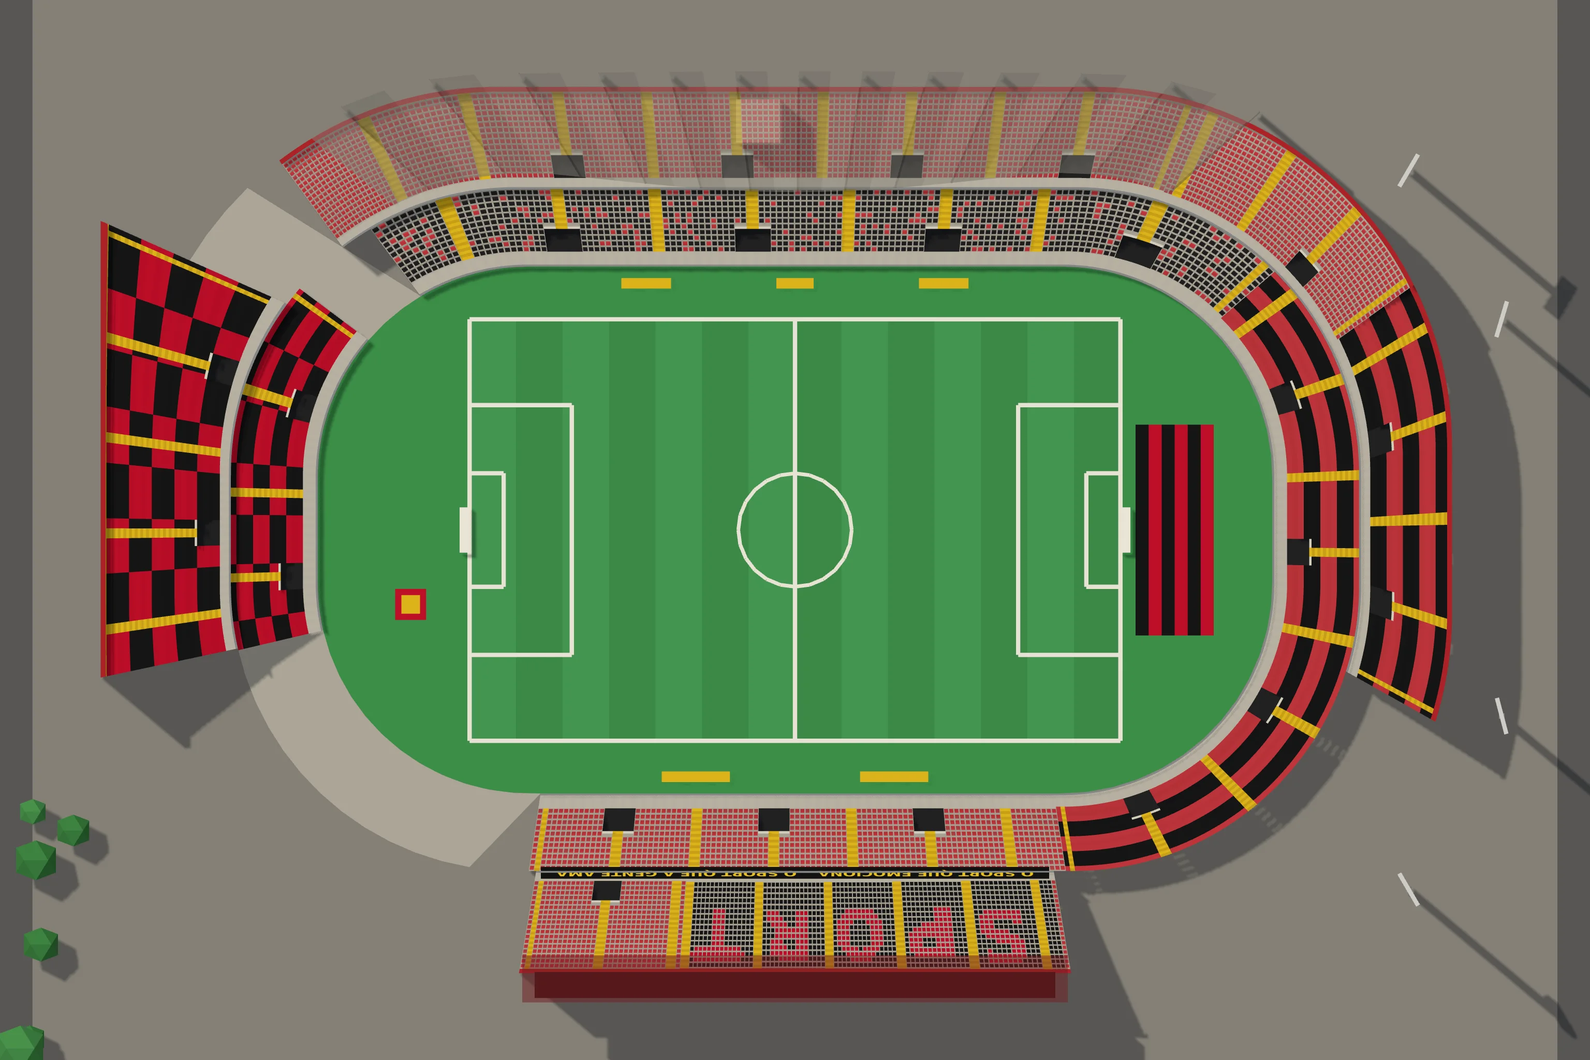
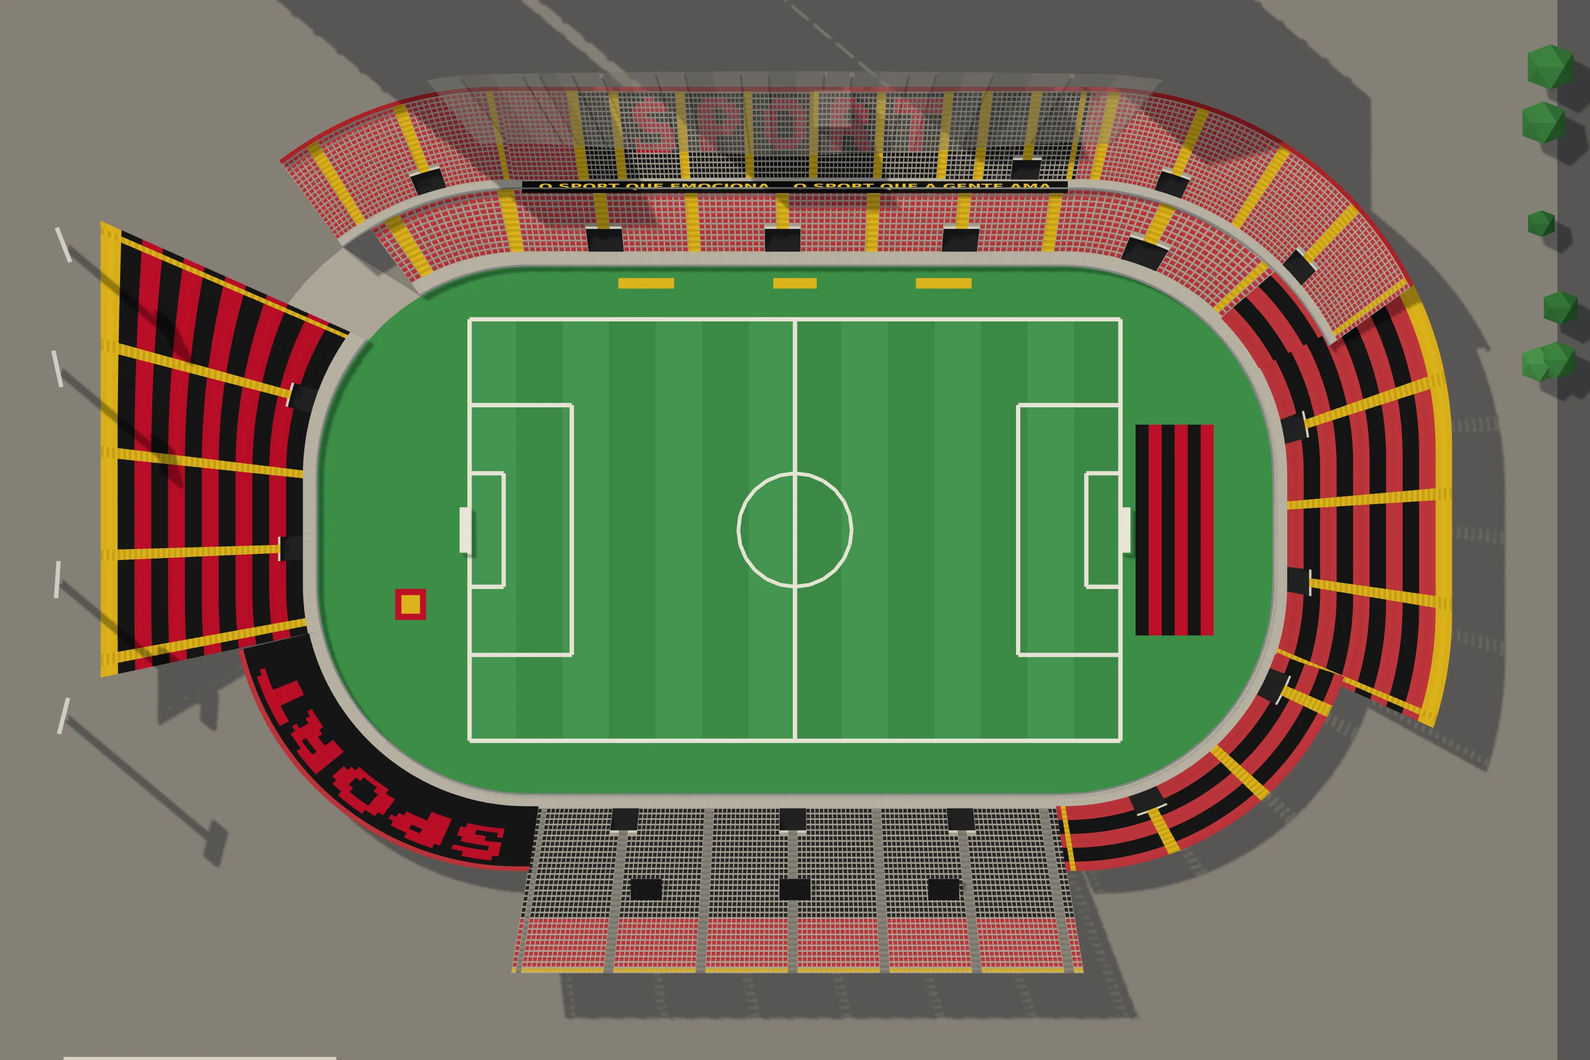
Ilha do Retiro: um andar só atrás dos gols e no lado descoberto; SPORT no lado coberto e na curva sudoeste
Claude-Session: https://claude.ai/code/session_019hwwMAyyP7ZAvyq6wYTetr

diff --git a/cenario3d/dados/estadios_cenas.js b/cenario3d/dados/estadios_cenas.js
@@ -217,19 +217,19 @@ window.__ESTADIOS = {
    "visitante": 3
   },
   "foto": {
-   "imagem": "img/cenas/estadio_ilha_do_retiro.webp?v=6233a056",
-   "mascara": "384;384;384;384;384;384;384;384;384;384;384;384;384;384;384;384;384;384;384;384;384;384;108,168,108;103,178,103;98,188,98;95,194,95;92,200,92;89,206,89;86,212,86;84,216,84;82,220,82;80,224,80;78,228,78;76,232,76;75,234,75;73,238,73;72,240,72;70,244,70;69,246,69;68,248,68;66,252,66;65,254,65;64,256,64;63,258,63;62,260,62;60,264,60;59,266,59;58,268,58;58,268,58;57,270,57;56,272,56;55,274,55;54,276,54;53,278,53;25,2,25,280,52;25,4,23,280,52;25,6,20,282,51;25,8,17,284,50;25,11,13,286,49;25,13,11,286,49;25,15,8,288,48;25,17,5,290,47;25,20,2,290,47;25,313,46;25,94,146,73,46;25,89,156,69,45;25,86,162,66,45;25,83,168,64,44;25,81,172,63,43;25,79,176,61,43;25,77,180,59,43;25,75,184,58,42;25,74,186,57,42;25,73,188,57,41;25,71,192,55,41;25,70,194,55,40;25,69,196,54,40;25,68,198,53,40;25,67,200,53,39;25,66,202,52,39;25,65,204,51,39;25,64,206,51,38;25,63,208,50,38;25,62,210,49,38;25,61,212,49,37;25,61,212,49,37;25,60,214,48,37;25,59,216,47,37;25,59,216,48,36;25,58,218,47,36;25,57,220,46,36;25,57,220,46,36;25,56,222,46,35;25,56,222,46,35;25,55,224,45,35;25,55,224,45,35;25,55,224,45,35;25,54,226,44,35;25,54,226,44,35;25,53,228,43,35;25,53,228,44,34;25,53,228,44,34;25,53,228,44,34;25,52,230,43,34;25,52,230,43,34;25,52,230,43,34;25,52,230,43,34;25,52,230,43,34;25,51,232,42,34;25,51,232,42,34;25,51,232,42,34;25,51,232,42,34;25,51,232,42,34;25,51,232,42,34;25,51,232,42,34;25,51,232,42,34;25,51,232,42,34;25,51,232,42,34;25,51,232,42,34;25,51,232,42,34;25,51,232,42,34;25,51,232,42,34;25,51,232,42,34;25,51,232,42,34;25,51,232,42,34;25,51,232,42,34;25,51,232,42,34;25,51,232,42,34;25,51,232,42,34;25,51,232,42,34;25,51,232,42,34;25,51,232,42,34;25,51,232,42,34;25,51,232,42,34;25,51,232,42,34;25,51,232,42,34;25,51,232,42,34;25,51,232,42,34;25,51,232,42,34;25,51,232,42,34;25,51,232,42,34;25,51,232,42,34;25,51,232,42,34;25,51,232,42,34;25,51,232,42,34;25,51,232,42,34;25,51,232,42,34;25,51,232,42,34;25,52,230,43,34;25,52,230,43,34;25,52,230,43,34;25,52,230,43,34;25,52,230,43,34;25,53,228,44,34;25,53,228,44,34;25,53,228,44,34;25,53,228,43,35;25,27,5,22,226,44,35;25,23,10,21,226,44,35;25,18,15,22,224,45,35;25,13,20,22,224,45,35;25,8,25,22,224,45,35;25,4,30,22,222,22,2,22,35;59,22,222,22,6,18,35;59,23,220,23,10,13,36;60,22,220,22,15,9,36;60,23,218,23,19,5,36;61,23,216,23,24,1,36;61,23,216,23,61;61,24,214,24,61;62,24,212,24,62;62,24,212,24,62;63,24,210,24,63;63,25,208,25,63;64,25,206,25,64;64,26,204,26,64;65,26,202,26,65;66,26,200,26,66;66,27,198,27,66;67,27,196,27,67;67,28,194,28,67;68,28,192,28,68;69,29,188,29,69;70,29,186,29,70;70,30,184,30,70;71,31,180,31,71;72,32,176,32,72;73,33,172,33,73;74,34,168,34,74;75,36,162,36,75;76,38,156,38,76;77,42,146,42,77;78,228,78;79,226,79;80,224,80;81,222,81;83,218,83;84,216,84;85,214,85;87,210,87;89,206,89;90,204,90;92,200,92;94,196,94;96,192,96;99,186,99;101,182,101;104,176,104;108,168,108;113,158,113;129,126,129;129,126,129;128,128,128;127,130,127;126,132,126;126,132,126;125,134,125;124,136,124;123,138,123;123,138,123;122,140,122;121,142,121;120,144,120;120,144,120;119,146,119;118,148,118;117,150,117;117,150,117;116,152,116;115,154,115;114,156,114;113,158,113;113,158,113;112,160,112;384;384;384;384;384;384;384;384;384;384;384;384;384;384;384;384;384;384;384;384;384;384"
+   "imagem": "img/cenas/estadio_ilha_do_retiro.webp?v=d19ef18a",
+   "mascara": "384;384;384;384;384;384;384;384;384;384;384;384;384;384;384;384;384;384;384;384;384;384;108,168,108;103,178,103;98,188,98;95,194,95;92,200,92;89,206,89;86,212,86;84,216,84;82,220,82;80,224,80;78,228,78;76,232,76;75,234,75;73,238,73;72,240,72;70,244,70;69,246,69;68,248,68;66,252,66;65,254,65;64,256,64;63,258,63;62,260,62;61,263,60;62,263,59;63,263,58;65,261,58;67,260,57;68,260,56;70,259,55;71,259,54;73,258,53;24,3,48,257,52;24,5,47,256,52;24,7,47,255,51;24,9,46,255,50;24,12,45,254,49;24,14,44,253,49;24,16,41,255,48;24,18,38,257,47;24,21,34,258,47;24,23,31,260,46;24,25,28,42,146,73,46;24,27,25,38,156,69,45;24,30,21,36,162,66,45;24,32,18,34,168,64,44;24,34,15,33,172,63,43;24,36,12,32,176,61,43;24,39,8,31,180,59,43;24,41,5,30,184,58,42;24,43,3,29,186,57,42;24,74,188,57,41;24,72,192,55,41;24,71,194,55,40;24,70,196,55,39;24,69,198,55,38;24,68,200,54,38;24,67,202,53,38;24,66,204,53,37;24,65,206,52,37;24,64,208,51,37;24,63,210,51,36;24,62,212,50,36;24,62,212,50,36;24,61,214,49,36;24,60,216,49,35;24,60,216,49,35;24,59,218,48,35;24,58,220,47,35;24,58,220,47,35;24,57,222,47,34;24,57,222,47,34;24,56,224,46,34;24,56,224,46,34;24,56,224,46,34;24,55,226,45,34;24,55,226,45,34;24,54,228,45,33;24,54,228,45,33;24,54,228,45,33;24,54,228,45,33;24,53,230,44,33;24,53,230,44,33;24,53,230,44,33;24,53,230,44,33;24,53,230,44,33;24,52,232,43,33;24,52,232,43,33;24,52,232,43,33;24,52,232,43,33;24,52,232,43,33;24,52,232,43,33;24,52,232,43,33;24,52,232,43,33;24,52,232,43,33;24,52,232,43,33;24,52,232,43,33;24,52,232,43,33;24,52,232,43,33;24,52,232,43,33;24,52,232,43,33;24,52,232,43,33;24,52,232,43,33;24,52,232,43,33;24,52,232,43,33;24,52,232,43,33;24,52,232,43,33;24,52,232,43,33;24,52,232,43,33;24,52,232,43,33;24,52,232,43,33;24,52,232,43,33;24,52,232,43,33;24,52,232,43,33;24,52,232,43,33;24,52,232,43,33;24,52,232,43,33;24,52,232,43,33;24,52,232,43,33;24,52,232,43,33;24,52,232,43,33;24,52,232,43,33;24,52,232,43,33;24,52,232,43,33;24,52,232,43,33;24,52,232,43,33;24,53,230,44,33;24,53,230,44,33;24,53,230,44,33;24,53,230,44,33;24,53,230,44,33;24,54,228,45,33;24,54,228,45,33;24,54,228,45,33;24,54,228,45,33;24,28,5,22,226,45,34;24,24,10,21,226,45,34;24,19,15,22,224,46,34;24,14,20,22,224,46,34;24,9,25,22,224,46,34;24,5,30,22,222,22,2,23,34;59,22,222,22,6,19,34;59,23,220,23,10,14,35;60,22,220,22,15,10,35;60,23,218,23,19,6,35;61,23,216,23,24,2,35;61,23,216,23,61;61,24,214,24,61;62,24,212,24,62;62,24,212,24,62;63,24,210,24,63;63,25,208,25,63;64,25,206,25,64;64,26,204,26,64;65,26,202,26,65;66,26,200,26,66;66,27,198,27,66;67,27,196,27,67;67,28,194,28,67;68,28,192,28,68;69,29,188,29,69;70,29,186,29,70;70,30,184,30,70;71,31,180,31,71;72,32,176,32,72;73,33,172,33,73;74,34,168,34,74;75,36,162,36,75;76,38,156,38,76;77,42,146,42,77;78,228,78;79,226,79;80,224,80;81,222,81;83,218,83;84,216,84;85,214,85;87,210,87;89,206,89;90,204,90;92,200,92;94,196,94;96,192,96;99,186,99;101,182,101;104,176,104;108,168,108;113,159,112;112,161,111;111,163,110;110,165,109;109,167,108;108,169,107;108,170,106;107,172,105;106,174,104;105,176,103;104,178,102;103,180,101;102,182,100;101,184,99;100,186,98;99,188,97;98,190,96;97,192,95;96,194,94;95,196,93;94,198,92;93,199,92;95,194,95;98,188,98;103,178,103;109,166,109;384;384;384;384;384;384;384;384;384;384;384;384;384;384;384;384;384;384;384;384;384"
   },
   "cena": {
    "nome": "Ilha do Retiro",
    "faixas": {
     "mandante1": {
-     "x": 2466,
-     "y": 893,
+     "x": 2467,
+     "y": 926,
      "len": 130,
      "dir": [
       -0.99,
-      0.14
+      0.1
      ]
     },
     "mandante2": {
@@ -284,8 +284,8 @@ window.__ESTADIOS = {
      "rot": "MANDANTE 1º ESCALÃO",
      "lado": "mandante",
      "entrada": "portao_mandante",
-     "x": 2631,
-     "y": 870,
+     "x": 2632,
+     "y": 909,
      "jogador": true
     },
     {
@@ -336,11 +336,11 @@ window.__ESTADIOS = {
      "lado": "mandante",
      "raio": 40,
      "dir": [
-      0.97,
-      -0.26
+      0.98,
+      -0.19
      ],
-     "x": 2480,
-     "y": 771
+     "x": 2498,
+     "y": 828
     },
     {
      "id": "portao_visitante",
@@ -348,21 +348,21 @@ window.__ESTADIOS = {
      "lado": "visitante",
      "raio": 40,
      "dir": [
-      -0.97,
-      -0.24
+      -1,
+      0.04
      ],
-     "x": 587,
-     "y": 786
+     "x": 566,
+     "y": 1060
     }
    ],
    "pmPostos": [
     {
-     "x": 639,
-     "y": 547
+     "x": 705,
+     "y": 582
     },
     {
-     "x": 520,
-     "y": 484
+     "x": 651,
+     "y": 554
     },
     {
      "x": 587,

diff --git a/cenario3d/planta.html b/cenario3d/planta.html
@@ -289,24 +289,24 @@ button:focus-visible, input:focus-visible { outline: 2px solid var(--selecao); o
 
 <script type="module">
 import * as THREE from 'https://cdn.jsdelivr.net/npm/three@0.160.0/build/three.module.min.js';
-import { planoDaCasa, montarCasa, juntarBlocos, lugarDoDecalque, placasDoLote, segmentosDoMuro, carrosDoEstacionamento, portaoDoEstacionamento } from './js/casas3d.js?v=fd7e92d181';
-import { montarModelos } from './js/modelos3d.js?v=fd7e92d181';
-import { moldeDaPeca, comTransformador } from './js/props3d.js?v=fd7e92d181';
-import { ATLAS } from './js/modelos_atlas.js?v=fd7e92d181';
-import { Construtor, sorteio } from './js/construtor3d.js?v=fd7e92d181';
-import { gerarProposta, MAPAS, MAPA_DO_PORTE, RUA, LONGE_DO_ESTADIO_M, cisaoDaPraca, VAO_CIDADES_M, PRAIA_A_MAIS } from './js/proposta.js?v=fd7e92d181';
-import { montarSede, nivelQueCabe } from './js/sede3d.js?v=fd7e92d181';
-import { onibus as onibusDetalhe, juntar as juntarDetalhe } from './js/detalhe3d.js?v=fd7e92d181';
-import { montarLoteDeVeraneio, plantaDoLote, festaNoMundo, noMundoDoLote, cenaDaFesta, detalheDaCasaDaFesta } from './js/veraneio3d.js?v=fd7e92d181';
-import { montarCaravana, cenaDaCaravana } from './js/caravana3d.js?v=fd7e92d181';
-import { montarEstacao, montarTunel, montarCarro, TREM } from './js/metro3d.js?v=fd7e92d181';
-import { montarShopping, montarDelegacia, montarPraca, montarIgreja, montarEscola, montarHospital } from './js/equip3d.js?v=fd7e92d181';
-import { montarEquipAntigo, TIPOS_ANTIGOS } from './js/equip_antigo3d.js?v=fd7e92d181';
-import { PECAS_PRAIA, montarPecaDaPraia } from './js/praia3d.js?v=fd7e92d181';
-import { ESPECIES_LP, FLORA_LP, montarArvoreLowpoly, montarAsDez, facesDaArvore, especieLowpolyDe } from './js/arvores_lowpoly.js?v=fd7e92d181';
-import { plantarMato, montarMato, LONGE_M, DENSIDADE, LADRILHO_M } from './js/mato3d.js?v=fd7e92d181';
-import { ESTADIOS_JOGO, montarEstadioJogo, glbDoEstadio, cortarEstadio, plantaDoEstadio, modeloDaLotacao, nomeDoLetreiro, nomeComAcento, marcaDoEstadio, BOCAS_DOS_PORTOES, BILHETERIAS_DA_RUA } from './js/estadios3d.js?v=fd7e92d181';
-import { PECAS_AMBULANTES, montarAmbulante } from './js/ambulantes3d.js?v=fd7e92d181';
+import { planoDaCasa, montarCasa, juntarBlocos, lugarDoDecalque, placasDoLote, segmentosDoMuro, carrosDoEstacionamento, portaoDoEstacionamento } from './js/casas3d.js?v=b60e0d81f1';
+import { montarModelos } from './js/modelos3d.js?v=b60e0d81f1';
+import { moldeDaPeca, comTransformador } from './js/props3d.js?v=b60e0d81f1';
+import { ATLAS } from './js/modelos_atlas.js?v=b60e0d81f1';
+import { Construtor, sorteio } from './js/construtor3d.js?v=b60e0d81f1';
+import { gerarProposta, MAPAS, MAPA_DO_PORTE, RUA, LONGE_DO_ESTADIO_M, cisaoDaPraca, VAO_CIDADES_M, PRAIA_A_MAIS } from './js/proposta.js?v=b60e0d81f1';
+import { montarSede, nivelQueCabe } from './js/sede3d.js?v=b60e0d81f1';
+import { onibus as onibusDetalhe, juntar as juntarDetalhe } from './js/detalhe3d.js?v=b60e0d81f1';
+import { montarLoteDeVeraneio, plantaDoLote, festaNoMundo, noMundoDoLote, cenaDaFesta, detalheDaCasaDaFesta } from './js/veraneio3d.js?v=b60e0d81f1';
+import { montarCaravana, cenaDaCaravana } from './js/caravana3d.js?v=b60e0d81f1';
+import { montarEstacao, montarTunel, montarCarro, TREM } from './js/metro3d.js?v=b60e0d81f1';
+import { montarShopping, montarDelegacia, montarPraca, montarIgreja, montarEscola, montarHospital } from './js/equip3d.js?v=b60e0d81f1';
+import { montarEquipAntigo, TIPOS_ANTIGOS } from './js/equip_antigo3d.js?v=b60e0d81f1';
+import { PECAS_PRAIA, montarPecaDaPraia } from './js/praia3d.js?v=b60e0d81f1';
+import { ESPECIES_LP, FLORA_LP, montarArvoreLowpoly, montarAsDez, facesDaArvore, especieLowpolyDe } from './js/arvores_lowpoly.js?v=b60e0d81f1';
+import { plantarMato, montarMato, LONGE_M, DENSIDADE, LADRILHO_M } from './js/mato3d.js?v=b60e0d81f1';
+import { ESTADIOS_JOGO, montarEstadioJogo, glbDoEstadio, cortarEstadio, plantaDoEstadio, modeloDaLotacao, nomeDoLetreiro, nomeComAcento, marcaDoEstadio, BOCAS_DOS_PORTOES, BILHETERIAS_DA_RUA } from './js/estadios3d.js?v=b60e0d81f1';
+import { PECAS_AMBULANTES, montarAmbulante } from './js/ambulantes3d.js?v=b60e0d81f1';
 
 const $ = id => document.getElementById(id);
 const aviso = $('aviso');
@@ -323,25 +323,25 @@ function carregarScript(src) {
 }
 window.TO = window.TO || { dados: {} };
 try {
-  await carregarScript('dados/torcidas.js?v=fd7e92d181');
-  await carregarScript('dados/times.js?v=fd7e92d181');
-  await carregarScript('dados/cena_estadio.js?v=fd7e92d181');
-  await carregarScript('dados/cidades.js?v=fd7e92d181');
-  await carregarScript('dados/estadios.js?v=fd7e92d181');
-  await carregarScript('dados/escudos.js?v=fd7e92d181');
+  await carregarScript('dados/torcidas.js?v=b60e0d81f1');
+  await carregarScript('dados/times.js?v=b60e0d81f1');
+  await carregarScript('dados/cena_estadio.js?v=b60e0d81f1');
+  await carregarScript('dados/cidades.js?v=b60e0d81f1');
+  await carregarScript('dados/estadios.js?v=b60e0d81f1');
+  await carregarScript('dados/escudos.js?v=b60e0d81f1');
   /* o manifesto das faixas de verdade (a arte do dono, 29/09/2026): a arquibancada estende a da torcida */
-  await carregarScript('dados/faixas.js?v=fd7e92d181').catch(() => {});
+  await carregarScript('dados/faixas.js?v=b60e0d81f1').catch(() => {});
   /* O DOMÍNIO DOS BAIRROS (o dono, 30/09/2026): as sedes repetidas num
      bairro saem espalhadas (nos dados, na carga) e os bares ganham o
      bairro deles — o mesmo módulo do jogo (js/mundo/dominio.js) */
-  await carregarScript('js/dominio.js?v=fd7e92d181').catch(() => {});
+  await carregarScript('js/dominio.js?v=b60e0d81f1').catch(() => {});
 } catch (e) {
   aviso.textContent = 'A planta da cidade não carregou (' + e.message + '). Recarregue a página.';
   throw e;
 }
 /* os PNG dos escudos, embutidos (o montar.sh gera): sem o arquivo, o
    caminho vai direto pra img/escudos/ */
-await carregarScript('dados/escudos_embutidos.js?v=fd7e92d181').catch(() => {});
+await carregarScript('dados/escudos_embutidos.js?v=b60e0d81f1').catch(() => {});
 const P = TO.dados.plantaEstadio, K = P.CIDADE, M = P.METRO, CALC = K.CALC;
 /* o mapa da vez (o pequeno, o médio ou o grande, montado pra praça
    escolhida): quem monta é usarMapa, lá embaixo */

diff --git a/cenario3d/js/jogo2d.js b/cenario3d/js/jogo2d.js
@@ -17,7 +17,7 @@
    cartão da partida cai perto da hora da bola e nada do que conta o
    placar passa na frente dele.
    ========================================================= */
-import { CASCA } from './jogo_casca.js?v=fd7e92d181';
+import { CASCA } from './jogo_casca.js?v=b60e0d81f1';
 
 const carregarScript = src => new Promise((ok, erro) => {
   const s = document.createElement('script');
@@ -31,17 +31,17 @@ async function montarJogo() {
   caixa.innerHTML = CASCA;
   while (caixa.firstChild) document.body.appendChild(caixa.firstChild);
   /* os escudos, as fotos das praças e as bandeiras embutidos (o `IMG()` do jogo procura aqui antes do caminho) */
-  await carregarScript('dados/imagens_jogo.js?v=fd7e92d181').catch(() => {});
+  await carregarScript('dados/imagens_jogo.js?v=b60e0d81f1').catch(() => {});
   /* os estádios low-poly das cenas (ferramentas/estadios/assar.js): antes do jogo, que monta as cenas quando carrega */
-  await carregarScript('dados/estadios_cenas.js?v=fd7e92d181').catch(() => {});
+  await carregarScript('dados/estadios_cenas.js?v=b60e0d81f1').catch(() => {});
   /* sem o rolo do feed: a tela entre os jogos é o portal */
   window.TO = window.TO || {};
   TO.semFeed = true;
-  await carregarScript('js/jogo.js?v=fd7e92d181');
-  await carregarScript('js/portal.js?v=fd7e92d181').catch(err => console.error('o portal não carregou:', err));
+  await carregarScript('js/jogo.js?v=b60e0d81f1');
+  await carregarScript('js/portal.js?v=b60e0d81f1').catch(err => console.error('o portal não carregou:', err));
   /* o boneco das cenas de imagem (os dois níveis afinados, em base64) */
-  if (!TO.dados.bonecoPertoGLB) await carregarScript('dados/boneco_glb.js?v=fd7e92d181').catch(() => {});
-  await import('./bonecos3_global.js?v=fd7e92d181').catch(err => console.error('o boneco das cenas não carregou:', err));
+  if (!TO.dados.bonecoPertoGLB) await carregarScript('dados/boneco_glb.js?v=b60e0d81f1').catch(() => {});
+  await import('./bonecos3_global.js?v=b60e0d81f1').catch(err => console.error('o boneco das cenas não carregou:', err));
   ligar();
 }
 

diff --git a/cenario3d/jogo.html b/cenario3d/jogo.html
@@ -9,16 +9,16 @@
 <link rel="preconnect" href="https://fonts.googleapis.com">
 <link rel="preconnect" href="https://fonts.gstatic.com" crossorigin>
 <link rel="stylesheet" href="https://fonts.googleapis.com/css2?family=Barlow+Semi+Condensed:wght@500;600;700&family=Barlow:wght@400;500;600&family=IBM+Plex+Mono:wght@400;500&display=swap">
-<link rel="stylesheet" href="css/jogo.css?v=fd7e92d181">
-<link rel="stylesheet" href="css/jogo3d.css?v=fd7e92d181">
-<link rel="stylesheet" href="css/portal.css?v=fd7e92d181">
-<link rel="stylesheet" href="css/telas3d.css?v=fd7e92d181">
+<link rel="stylesheet" href="css/jogo.css?v=b60e0d81f1">
+<link rel="stylesheet" href="css/jogo3d.css?v=b60e0d81f1">
+<link rel="stylesheet" href="css/portal.css?v=b60e0d81f1">
+<link rel="stylesheet" href="css/telas3d.css?v=b60e0d81f1">
 <style>
 [hidden] { display: none !important; }
 html, body { height: 100%; margin: 0; }
 </style>
 </head>
 <body class="jogo3d">
-<script type="module" src="js/jogo2d.js?v=fd7e92d181"></script>
+<script type="module" src="js/jogo2d.js?v=b60e0d81f1"></script>
 </body>
 </html>

diff --git a/cenario3d/js/casas3d.js b/cenario3d/js/casas3d.js
@@ -60,10 +60,10 @@
    avançam (`rec`), e o letreiro, a pixação e a falha de reboco do
    bairro vão pro plano dessa parede, não pro da divisa.
    ========================================================= */
-import { Construtor, METRO, mureta, toldo, arSplit, sorteio } from './construtor3d.js?v=fd7e92d181';
-import { ATLAS } from './modelos_atlas.js?v=fd7e92d181';
+import { Construtor, METRO, mureta, toldo, arSplit, sorteio } from './construtor3d.js?v=b60e0d81f1';
+import { ATLAS } from './modelos_atlas.js?v=b60e0d81f1';
 /* as lojas do assalto (lojas3d.js): modelos de lote como os outros */
-import { TIPOS_LOJA, REC_LOJA, placaDaLoja } from './lojas3d.js?v=fd7e92d181';
+import { TIPOS_LOJA, REC_LOJA, placaDaLoja } from './lojas3d.js?v=b60e0d81f1';
 
 /* o arquivo de cada folha, pro bairro montar o material dele */
 export const arquivoDaFolha = folha => ATLAS[folha].arquivo;

diff --git a/cenario3d/js/ambulantes3d.js b/cenario3d/js/ambulantes3d.js
@@ -27,8 +27,8 @@
    que a planta acha o lugar dela na calçada do estádio. `sol`: o meio e
    o raio da copa ([x, z, r]), que o mapa desenha de perto.
    ========================================================= */
-import { Construtor, noMundo, placasNoMundo, sorteio, esfera, unit } from './construtor3d.js?v=fd7e92d181';
-import { Lugar, barra, tubo, cilindro, bloco, pano, toro, guardaSol, cadeiraPlastica, isopor, banqueta, CORES_SOL } from './praia3d.js?v=fd7e92d181';
+import { Construtor, noMundo, placasNoMundo, sorteio, esfera, unit } from './construtor3d.js?v=b60e0d81f1';
+import { Lugar, barra, tubo, cilindro, bloco, pano, toro, guardaSol, cadeiraPlastica, isopor, banqueta, CORES_SOL } from './praia3d.js?v=b60e0d81f1';
 
 const AQUI = Lugar();
 const escolha = (rnd, lista) => lista[Math.floor(rnd() * lista.length) % lista.length];

diff --git a/cenario3d/js/praia3d.js b/cenario3d/js/praia3d.js
@@ -36,8 +36,8 @@
    cadeira e a mesa de plástico) servem também os ambulantes da porta do
    estádio (ambulantes3d.js), na mesma folha.
    ========================================================= */
-import { Construtor, METRO, lerp, sub, soma, esc, unit, pv, noMundo, placasNoMundo, sorteio, varrer, esfera } from './construtor3d.js?v=fd7e92d181';
-import { montarArvoreLowpoly } from './arvores_lowpoly.js?v=fd7e92d181';
+import { Construtor, METRO, lerp, sub, soma, esc, unit, pv, noMundo, placasNoMundo, sorteio, varrer, esfera } from './construtor3d.js?v=b60e0d81f1';
+import { montarArvoreLowpoly } from './arvores_lowpoly.js?v=b60e0d81f1';
 
 const ALTO = [0, 1, 0];
 const escolha = (rnd, lista) => lista[Math.floor(rnd() * lista.length) % lista.length];

diff --git a/cenario3d/js/modelos3d.js b/cenario3d/js/modelos3d.js
@@ -32,8 +32,8 @@
    requadro da janela, toldo, ar-condicionado. O resto é pintura.
    ========================================================= */
 import * as THREE from 'https://cdn.jsdelivr.net/npm/three@0.160.0/build/three.module.min.js';
-import { ATLAS } from './modelos_atlas.js?v=fd7e92d181';
-import { Construtor, METRO, lerp, sub, soma, esc, pv, pe, unit, recuoPoligono, mureta, toldo, arSplit } from './construtor3d.js?v=fd7e92d181';
+import { ATLAS } from './modelos_atlas.js?v=b60e0d81f1';
+import { Construtor, METRO, lerp, sub, soma, esc, pv, pe, unit, recuoPoligono, mureta, toldo, arSplit } from './construtor3d.js?v=b60e0d81f1';
 
 /* =======================================================
    1. A IGREJA MATRIZ

diff --git a/cenario3d/js/props3d.js b/cenario3d/js/props3d.js
@@ -26,8 +26,8 @@
    poste vira uma haste de longe; o resto, que é miúdo, some.
    ========================================================= */
 import * as THREE from 'https://cdn.jsdelivr.net/npm/three@0.160.0/build/three.module.min.js';
-import { ATLAS } from './modelos_atlas.js?v=fd7e92d181';
-import { Construtor, METRO, lerp } from './construtor3d.js?v=fd7e92d181';
+import { ATLAS } from './modelos_atlas.js?v=b60e0d81f1';
+import { Construtor, METRO, lerp } from './construtor3d.js?v=b60e0d81f1';
 
 /* as cores que o vértice dá pro que sai claro na folha */
 const COR_CESTO = ['#6aa33a', '#d2b53a', '#3f82ad', '#8b6a3c', '#b8452f'];

diff --git a/cenario3d/js/mato3d.js b/cenario3d/js/mato3d.js
@@ -19,8 +19,8 @@
 
    Tudo em metros; `noMundo` converte. A mesma semente dá o mesmo mato.
    ========================================================= */
-import { METRO, noMundo, sorteio } from './construtor3d.js?v=fd7e92d181';
-import { facesDaArvore, especieLowpolyDe } from './arvores_lowpoly.js?v=fd7e92d181';
+import { METRO, noMundo, sorteio } from './construtor3d.js?v=b60e0d81f1';
+import { facesDaArvore, especieLowpolyDe } from './arvores_lowpoly.js?v=b60e0d81f1';
 
 /* a área de chão de cada árvore (m²), por lugar */
 export const DENSIDADE = { mata: 70, cerrado: 200, caatinga: 150, sul: 90, praia: 120, cidade: 250 };

diff --git a/cenario3d/js/bonecos3_global.js b/cenario3d/js/bonecos3_global.js
@@ -14,7 +14,7 @@
    DOMContentLoaded: quem usa (a ponte, numa cena aberta pelo jogador)
    chega muito depois.
    ========================================================= */
-import { montar, desenharDeCima, desenharVitrine, limparDeCima, fotoDoTrofeu, fotoDaBriga, fotoDaCena, perdeu, bonecos } from './bonecos3_cena.js?v=fd7e92d181';
+import { montar, desenharDeCima, desenharVitrine, limparDeCima, fotoDoTrofeu, fotoDaBriga, fotoDaCena, perdeu, bonecos } from './bonecos3_cena.js?v=b60e0d81f1';
 
 window.TO = window.TO || {};
 TO.diaJogo = TO.diaJogo || {};

diff --git a/cenario3d/js/bonecos3_cena.js b/cenario3d/js/bonecos3_cena.js
@@ -103,7 +103,7 @@
       numa fase sorteada (quem sai junto não sai no mesmo pé).
    ========================================================= */
 import * as THREE from 'https://cdn.jsdelivr.net/npm/three@0.160.0/build/three.module.min.js';
-import { GLTFLoader, SkeletonUtils } from './GLTFLoader.js?v=fd7e92d181';
+import { GLTFLoader, SkeletonUtils } from './GLTFLoader.js?v=b60e0d81f1';
 
 /* onde o modelo mora, quando não vem embutido em base64: o detalhado
    (o do Blender) e os dois níveis afinados dele (ferramentas/afinar_boneco.mjs) */
